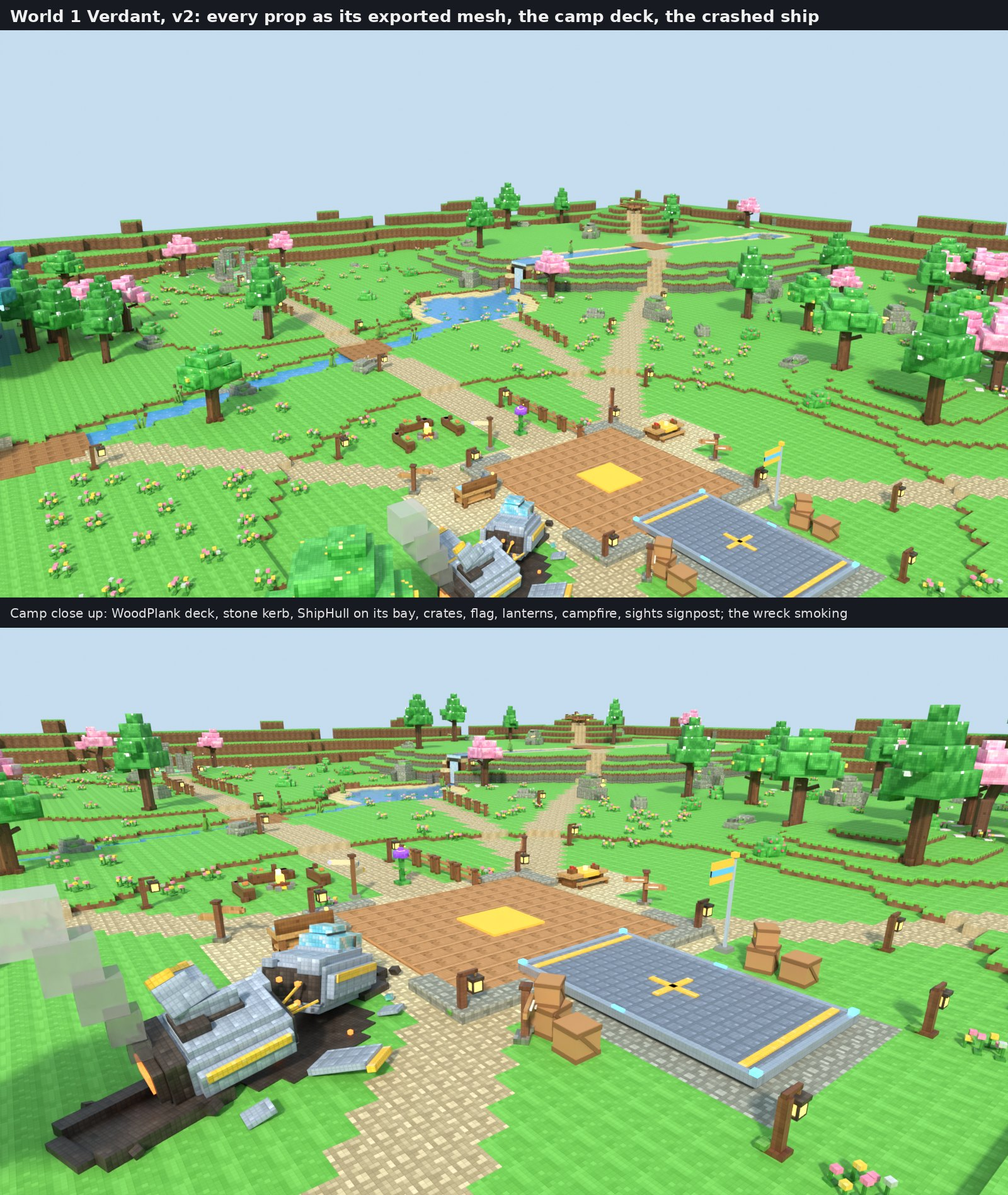
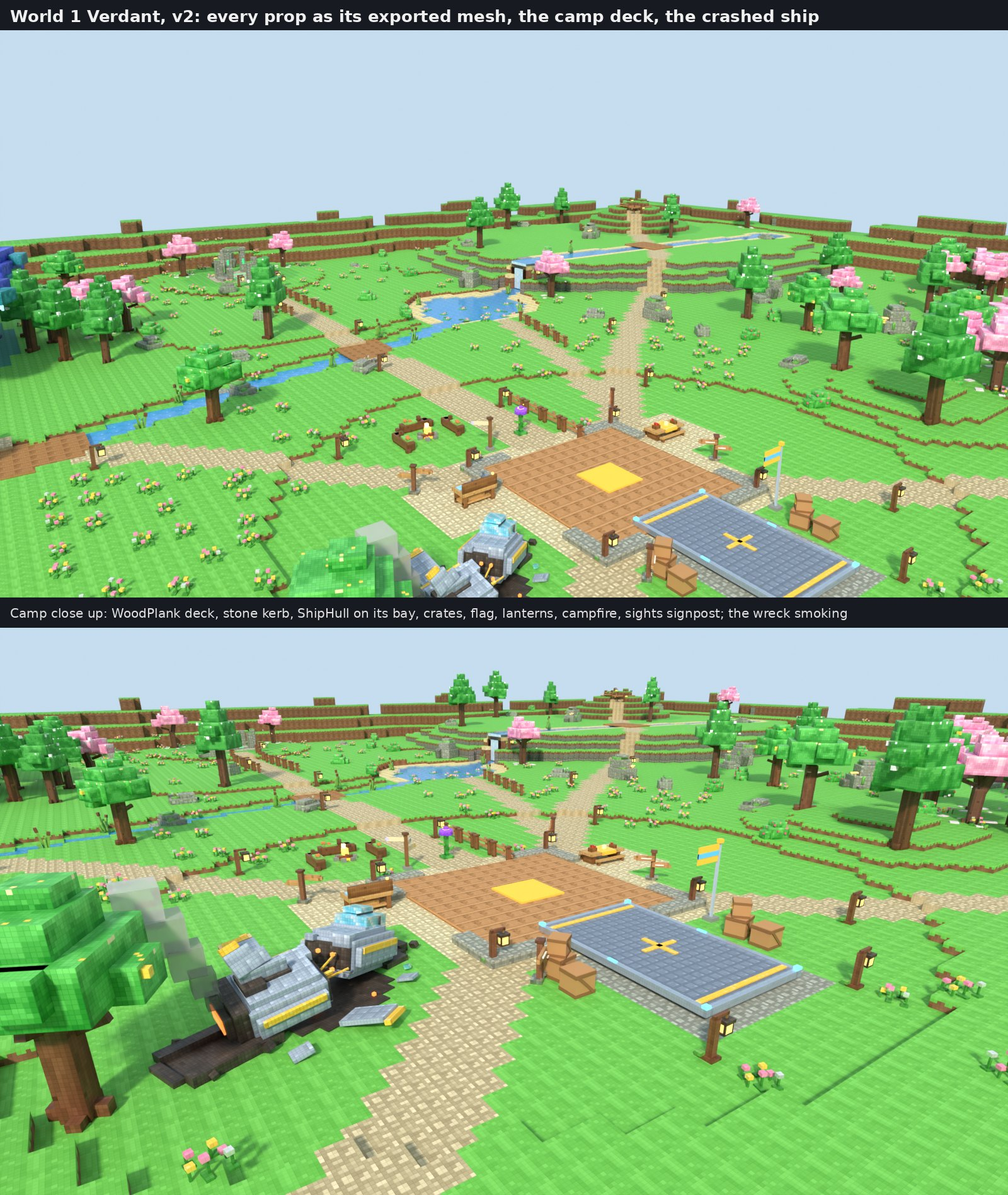
World previews v2: both worlds' hero and camp views with every exported prop as its mesh (media/studio/2026-10-21/ingame_world1_preview_v2.jpg, ingame_world2_preview_v2.jpg); the World 1 camp view framed to take in the wreck
Claude-Session: https://claude.ai/code/session_01AXvT6QCi1wEkW64tWcXEt5

diff --git a/tools/blender/world_preview.py b/tools/blender/world_preview.py
@@ -447,7 +447,7 @@ def camera(scene, view, size, world_id):
 # scale, looking out to the world's set pieces; "wide" takes the whole map in from a corner.
 HERO = {
     1: {"hero": ((62.0, 44.0, -62.0), (-34.0, 4.0, 70.0), 26.0),
-        "camp": ((34.0, 20.0, -44.0), (-2.0, 1.0, 2.0), 22.0),
+        "camp": ((40.0, 24.0, -54.0), (6.0, 1.0, -4.0), 22.0),
         "falls": ((-30.0, 18.0, 66.0), (-66.0, 6.0, 104.0), 28.0),
         "starhollow": ((62.0, 48.0, 38.0), (138.0, 18.0, 136.0), 24.0),
         "wide": ((150.0, 120.0, -215.0), (-30.0, 0.0, 40.0), 30.0)},
